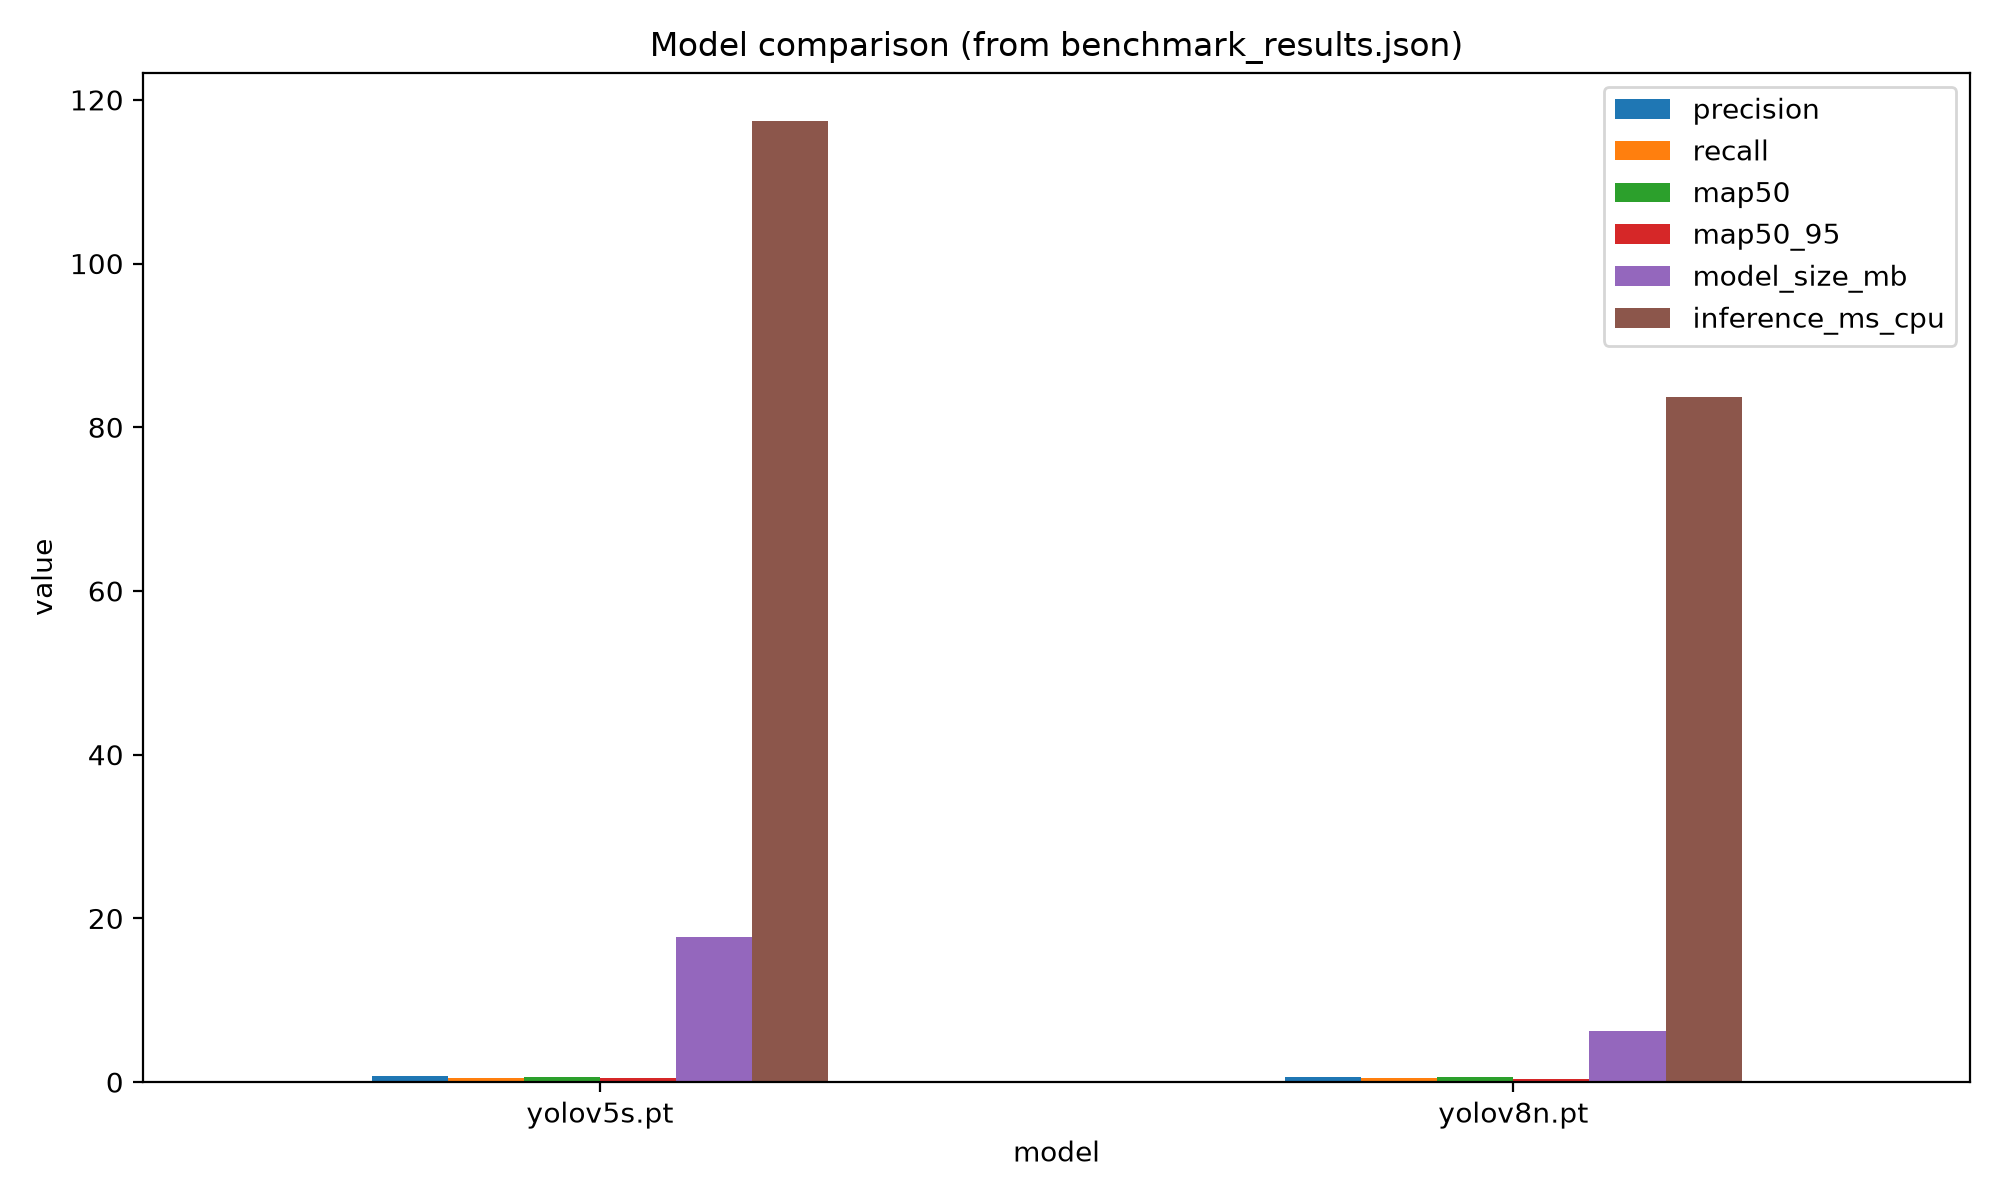
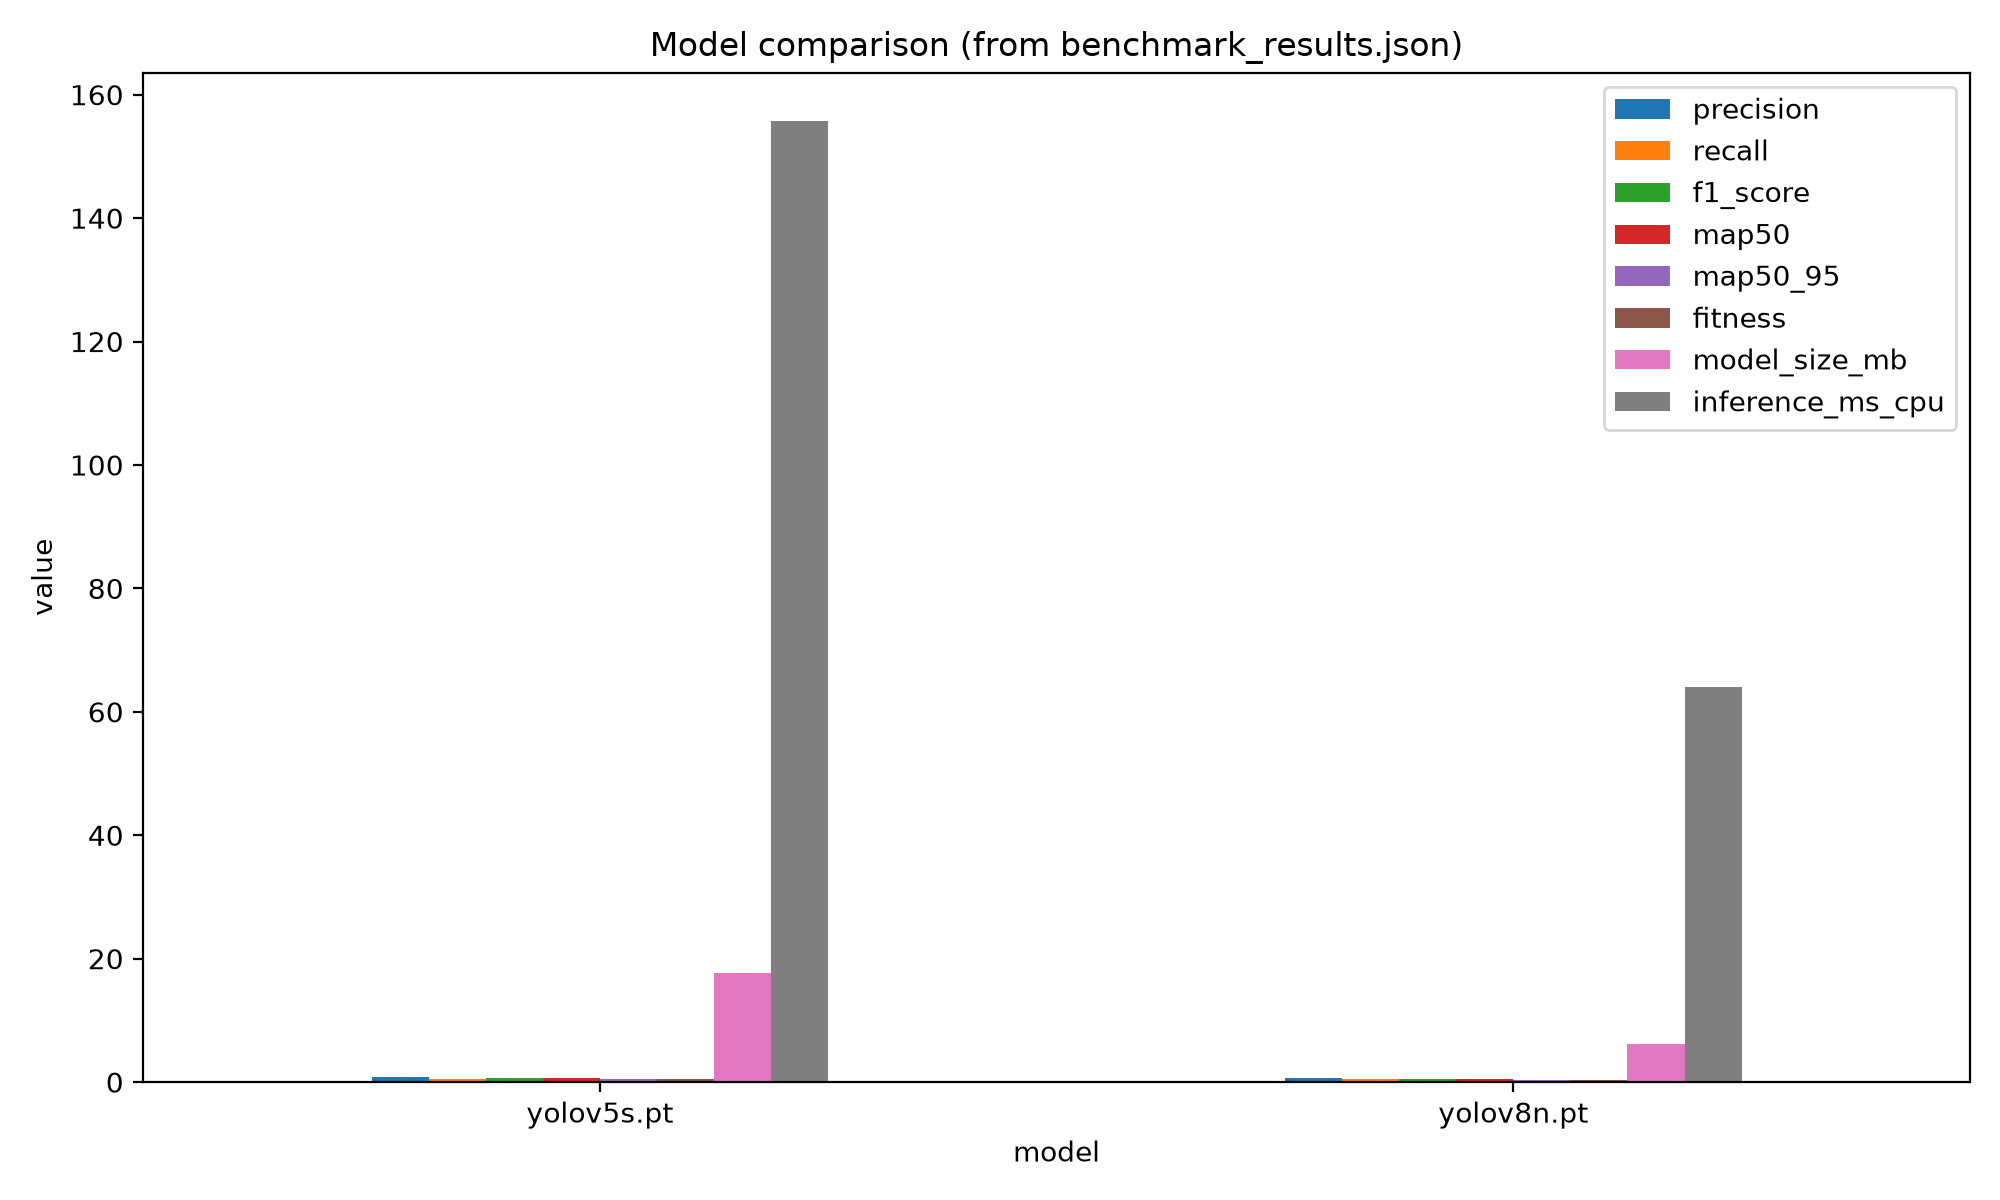
docs: add F1 Score and Fitness metrics to benchmark script and README

diff --git a/disaster-response-vision/src/disaster_vision/evaluation/benchmark.py b/disaster-response-vision/src/disaster_vision/evaluation/benchmark.py
@@ -36,6 +36,8 @@ class ModelBenchmarkResult:
     recall: float
     map50: float
     map50_95: float
+    f1_score: float
+    fitness: float
     inference_ms_cpu: float
     inference_ms_gpu: float | None
     device_gpu: str | None
@@ -58,9 +60,11 @@ def _latency_ms(model, image_path: Path, *, device: str, runs: int = 15) -> floa
     return statistics.mean(samples)
 
 
-def _extract_val_metrics(metrics: Any) -> tuple[float, float, float, float]:
+def _extract_val_metrics(metrics: Any) -> tuple[float, float, float, float, float, float]:
     box = metrics.box
-    return float(box.mp), float(box.mr), float(box.map50), float(box.map)
+    mp, mr = float(box.mp), float(box.mr)
+    f1 = 2 * (mp * mr) / (mp + mr) if (mp + mr) > 0 else 0.0
+    return mp, mr, float(box.map50), float(box.map), f1, float(metrics.fitness)
 
 
 def benchmark_model(
@@ -78,7 +82,7 @@ def benchmark_model(
     logger.info("Running val() for %s on %s", load_name, data_yaml)
     model = YOLO(load_name)
     metrics = model.val(data=data_yaml, split="val", plots=True, verbose=False)
-    precision, recall, map50, map50_95 = _extract_val_metrics(metrics)
+    precision, recall, map50, map50_95, f1_score, fitness = _extract_val_metrics(metrics)
 
     size_mb = _model_size_mb(Path(getattr(model, "ckpt_path", weights_path)))
 
@@ -101,6 +105,8 @@ def benchmark_model(
         recall=round(recall, 4),
         map50=round(map50, 4),
         map50_95=round(map50_95, 4),
+        f1_score=round(f1_score, 4),
+        fitness=round(fitness, 4),
         inference_ms_cpu=round(cpu_ms, 2),
         inference_ms_gpu=round(gpu_ms, 2) if gpu_ms is not None else None,
         device_gpu=gpu_name,
@@ -137,7 +143,7 @@ def generate_charts(json_path: Path, output_dir: Path) -> None:
 
     output_dir.mkdir(parents=True, exist_ok=True)
 
-    metrics_cols = ["precision", "recall", "map50", "map50_95", "model_size_mb", "inference_ms_cpu"]
+    metrics_cols = ["precision", "recall", "f1_score", "map50", "map50_95", "fitness", "model_size_mb", "inference_ms_cpu"]
     plot_df = df[["model"] + metrics_cols].set_index("model")
 
     ax = plot_df.plot(kind="bar", figsize=(10, 6), rot=0)
@@ -171,7 +177,7 @@ def generate_charts(json_path: Path, output_dir: Path) -> None:
 def print_summary_table(results: list[ModelBenchmarkResult]) -> None:
     header = (
         f"{'Model':<14} {'mAP@0.5':>8} {'mAP@0.5:0.95':>12} "
-        f"{'Prec':>8} {'Recall':>8} {'Size MB':>8} {'CPU ms':>8} {'GPU ms':>8}"
+        f"{'Prec':>8} {'Recall':>8} {'F1':>8} {'Fitness':>8} {'Size MB':>8} {'CPU ms':>8} {'GPU ms':>8}"
     )
     print(header)
     print("-" * len(header))
@@ -179,7 +185,7 @@ def print_summary_table(results: list[ModelBenchmarkResult]) -> None:
         gpu = f"{r.inference_ms_gpu:.1f}" if r.inference_ms_gpu is not None else "n/a"
         print(
             f"{r.model:<14} {r.map50:>8.4f} {r.map50_95:>12.4f} "
-            f"{r.precision:>8.4f} {r.recall:>8.4f} {r.model_size_mb:>8.2f} "
+            f"{r.precision:>8.4f} {r.recall:>8.4f} {r.f1_score:>8.4f} {r.fitness:>8.4f} {r.model_size_mb:>8.2f} "
             f"{r.inference_ms_cpu:>8.1f} {gpu:>8}"
         )
 

diff --git a/README.md b/README.md
@@ -139,10 +139,10 @@ The benchmark evaluates the system against a genuinely held-out subset of the MS
 *Hardware: 11th Gen Intel Core i5-11300H @ 3.10GHz*
 *Dataset: Ultralytics COCO val2017 (300-image held-out subset)*
 
-| Model | mAP@0.5 | mAP@0.5:0.95 | Precision | Recall | Size (MB) | CPU Latency (ms) |
-|-------|---------|--------------|-----------|--------|-----------|------------------|
-| **yolov5s.pt** | 0.6349 | 0.4696 | 0.7483 | 0.5348 | 17.72 | 117.45 |
-| **yolov8n.pt** | 0.5728 | 0.4120 | 0.6560 | 0.4846 | 6.25 | 83.68 |
+| Model | mAP@0.5 | mAP@0.5:0.95 | Precision | Recall | F1 Score | Fitness | Size (MB) | CPU Latency (ms) |
+|-------|---------|--------------|-----------|--------|----------|---------|-----------|------------------|
+| **yolov5s.pt** | 0.6349 | 0.4696 | 0.7483 | 0.5348 | 0.6238 | 0.4696 | 17.72 | 155.8 |
+| **yolov8n.pt** | 0.5728 | 0.4120 | 0.6560 | 0.4846 | 0.5574 | 0.4120 | 6.25 | 64.1 |
 
 ## Known Limitations
 
